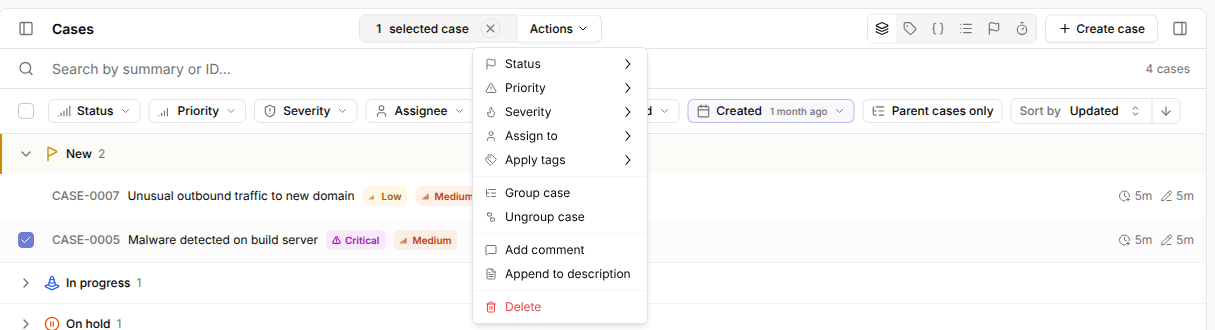
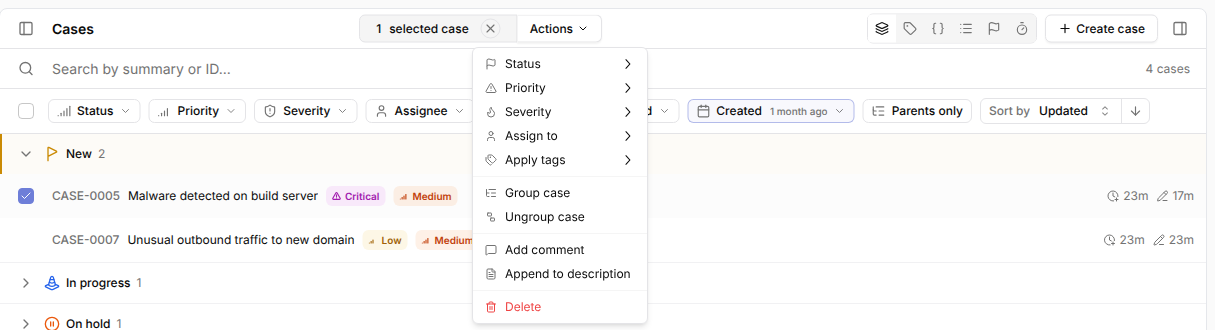
feat(cases): shorten hierarchy toggle to Parents only / All cases

diff --git a/frontend/src/components/cases/cases-search-scope.test.tsx b/frontend/src/components/cases/cases-search-scope.test.tsx
@@ -230,8 +230,8 @@ describe("exact-first case search UI", () => {
   it("shows dates without unsupported hierarchy labels or controls", async () => {
     setup(false)
     await waitFor(() => expect(casesSearchCases).toHaveBeenCalledTimes(1))
-    expect(screen.queryByText("Parent cases only")).not.toBeInTheDocument()
-    expect(screen.queryByText("Including sub-cases")).not.toBeInTheDocument()
+    expect(screen.queryByText("Parents only")).not.toBeInTheDocument()
+    expect(screen.queryByText("All cases")).not.toBeInTheDocument()
     expect(screen.queryByRole("switch")).not.toBeInTheDocument()
   })
 

diff --git a/frontend/src/components/cases/cases-header.tsx b/frontend/src/components/cases/cases-header.tsx
@@ -861,7 +861,7 @@ export function CasesHeader({
               )}
             >
               <ListTreeIcon className="size-3.5 text-muted-foreground" />
-              {includesSubCases ? "Including sub-cases" : "Parent cases only"}
+              {includesSubCases ? "All cases" : "Parents only"}
             </button>
           )}
         </fieldset>
